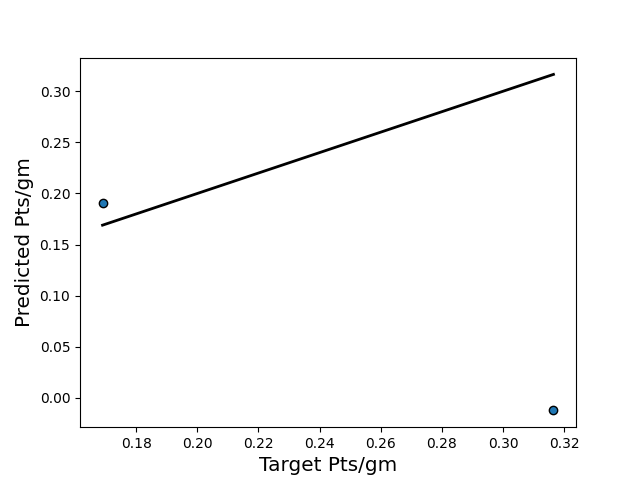
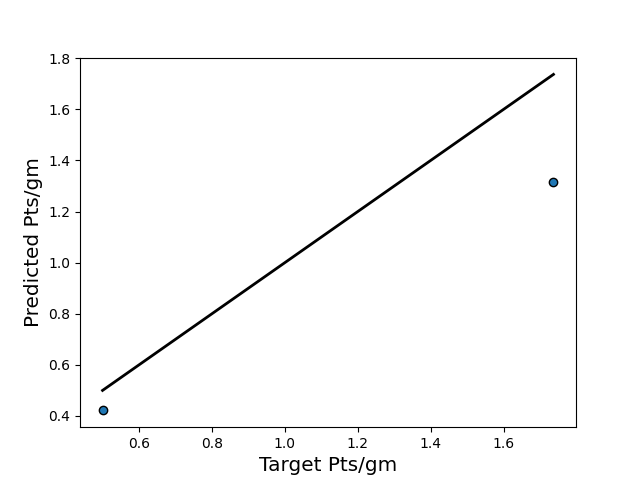
update

diff --git a/backend/scripts/player_data.py b/backend/scripts/player_data.py
@@ -96,6 +96,7 @@ with app.app_context():
         player_obj["height"] = player["heightInInches"]
         player_obj["weight"] = player["weightInPounds"]
         player_obj["birth_date"] = player["birthDate"]
+        player_obj["position"] = player["position"]
 
         # first season
         player_obj["goals_1"] = seasons[0]["goals"]
@@ -160,12 +161,12 @@ with app.app_context():
 
     df = process_data()
     df_final = df[["games_played_1", "games_played_2", "goals_1", "goals_2",
-                   "height", "plus_minus_1", "plus_minus_2", "ppg_3",
+                   "height", "plus_minus_1", "plus_minus_2", "position", "ppg_3",
                    "shots_1", "shots_2", "avg_toi_1", "avg_toi_2",
                    "weight", "points_1", "points_2", "age"]]
     
     # transform position columns into one-hot encoded features
-    df_final = pd.get_dummies(df_final)
+    df_final = pd.get_dummies(df_final, columns=["position"])
     df_final.to_csv('oilers_final.csv', index=False)
 
     # just start with one team to get a benchmark

diff --git a/backend/scripts/model.py b/backend/scripts/model.py
@@ -50,16 +50,16 @@ plt.savefig('plot.png')
 
 df_pred = process_data()
 df_pred_final = df_pred[["name","games_played_1", "games_played_2", "goals_1", "goals_2",
-            "height", "plus_minus_1", "plus_minus_2", "ppg_3",
+            "height", "plus_minus_1", "plus_minus_2", "position",
             "shots_1", "shots_2", "avg_toi_1", "avg_toi_2",
             "weight", "points_1", "points_2", "age"]]
-# df_pred_final = pd.get_dummies(df_pred_final)
 
+df_pred_final = pd.get_dummies(df_pred_final, columns=["position"])
 df_pred_final = normalize_data(df_pred_final)
 
 predictions = df_pred_final[["name"]]
 predictions["first name"] = predictions["name"].apply(lambda s: s.split(' ')[0])
 predictions["name"] = predictions["name"].apply(lambda s: s.split(' ')[1])
-# predictions["ppg"] = model.predict(df_pred_final.drop('name', axis=1))
+predictions["ppg"] = model.predict(df_pred_final.drop('name', axis=1))
 
-print(predictions)
+print(predictions.sort_values(by="ppg"))
